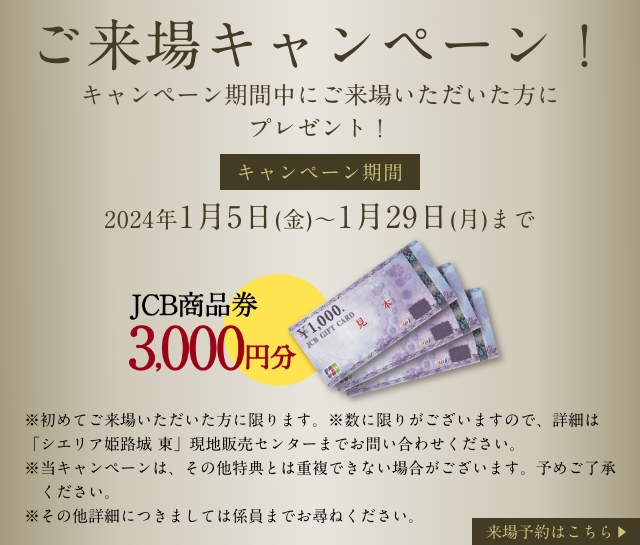
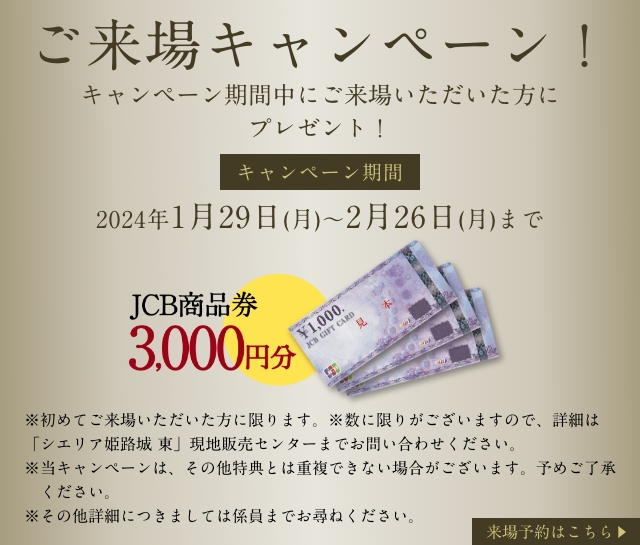
no message

Changed region(s): [[0.1562, 0.3743, 0.8438, 0.4367]]

diff --git a/htmlmail/240216/member.html b/htmlmail/240216/member.html
@@ -362,7 +362,7 @@ table { width: 100%; margin: 0; padding: 0; border: none; }
             <tr>
                 <td class="txt"><span class="center">この度は、「シエリア姫路城 東」に<br>ご関心いただきまして、誠にありがとうございます。<br><br>
                     
-                    現在「シエリア姫路城 東」では、<br><span style="color: #cc0000;">3LDK・東南角住戸の家具付き特別分譲</span>を開催中です。<br><br>また、<span style="color: #cc0000;">来場キャンペーン</span>を開催中です。<br><span style="color: #cc0000;">1月29日（月）までに<br>初めて「シエリア姫路城 東」に<br>ご来場いただいた方へ<br>JCB商品券 3,000円分</span>をプレゼントしております。<br>是非この機会にご見学ください。<br><br>
+                    現在「シエリア姫路城 東」では、<br><span style="color: #cc0000;">3LDK・東南角住戸の家具付き特別分譲</span>を開催中です。<br><br>また、<span style="color: #cc0000;">来場キャンペーン</span>を開催中です。<br><span style="color: #cc0000;">2月26日（月）までに<br>初めて「シエリア姫路城 東」に<br>ご来場いただいた方へ<br>JCB商品券 3,000円分</span>をプレゼントしております。<br>是非この機会にご見学ください。<br><br>
                     
                     お手数ではございますが<br>お電話または来場予約フォームより<br>ご予約をお願い申し上げます。<br><br>
                     
@@ -604,6 +604,12 @@ table { width: 100%; margin: 0; padding: 0; border: none; }
                     <table class="bukkenList">
                         <tr valign="top">
                             <td>
+                                <a href="https://info.kanden-rd.co.jp/l/577441/2023-11-08/fg9jj8" target="_blank">
+                                    <img src="https://www.cielia.com/mail/common/img/b_nishikita20.jpg" alt="">
+                                    <p class="name">（仮称）西宮北口<br>マンション<br>プロジェクト</p>
+                                </a>
+                            </td>
+                            <td>
                                 <a href="https://info.kanden-rd.co.jp/l/577441/2023-02-10/fc7fgc" target="_blank">
                                     <img src="https://www.cielia.com/mail/common/img/b_koshien76.jpg" alt="">
                                     <p class="name">シエリア<br>甲子園一番町</p>
@@ -621,21 +627,20 @@ table { width: 100%; margin: 0; padding: 0; border: none; }
                                     <p class="name">シエリア王子公園</p>
                                 </a>
                             </td>
+                        </tr>
+                        <tr valign="top">
                             <td>
                                 <a href="https://info.kanden-rd.co.jp/l/577441/2020-06-05/7p3z7s" target="_blank">
                                     <img src="https://www.cielia.com/mail/common/img/b_akashi810.jpg" alt="">
                                     <p class="name">シエリアシティ<br>明石大久保</p>
                                 </a>
-                            </td>
-                        </tr>
-                        <tr valign="top">              
+                            </td>              
                             <td>
                                 <a href="https://info.kanden-rd.co.jp/l/577441/2019-11-18/75q1r6" target="_blank">
                                     <img src="https://www.cielia.com/mail/common/img/b_himeji43.jpg" alt="">
                                     <p class="name">シエリア姫路城東</p>
                                 </a>
                             </td>
-                            <td class="blank"><p class="name">&nbsp;</p></td>
                             <td class="blank"><p class="name">&nbsp;</p></td>
                             <td class="blank"><p class="name">&nbsp;</p></td>
                         </tr>
@@ -757,6 +762,12 @@ table { width: 100%; margin: 0; padding: 0; border: none; }
                     <table class="bukkenList">
                         <tr valign="top">
                             <td>
+                                <a href="https://info.kanden-rd.co.jp/l/577441/2024-01-19/fgxjyb" target="_blank">
+                                    <img src="https://www.cielia.com/mail/common/img/b_kitaayase49.jpg" alt="">
+                                    <p class="name">シエリア北綾瀬</p>
+                                </a>
+                            </td>
+                            <td>
                                 <a href="https://info.kanden-rd.co.jp/l/577441/2023-06-22/ff23hm" target="_blank">
                                     <img src="https://www.cielia.com/mail/common/img/b_azamino145.jpg" alt="">
                                     <p class="name">シエリアあざみ野</p>
@@ -774,7 +785,6 @@ table { width: 100%; margin: 0; padding: 0; border: none; }
                                     <p class="name">シエリア<br>与野中央公園</p>
                                 </a>
                             </td>
-                            <td class="blank"><p class="name">&nbsp;</p></td>
                         </tr>
                     </table>
                 </td>
